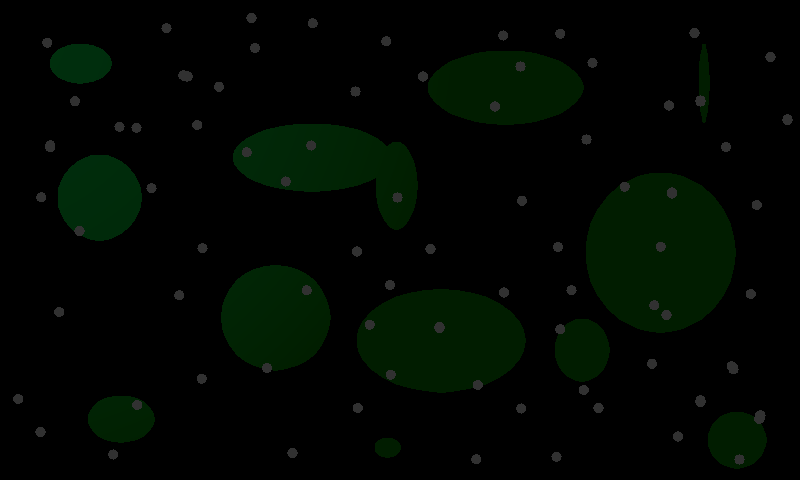
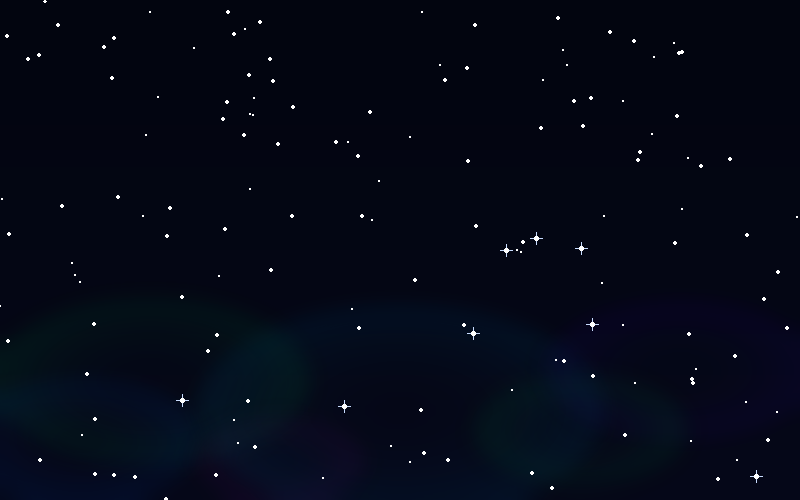
.

diff --git a/Games/breakout.py b/Games/breakout.py
@@ -297,7 +297,7 @@ class Breakout(Game):
         for power_up in self.power_ups:
             self.screen.blit(power_up.surf, power_up.rect)
         
-        score_surface = self.font1.render(f"Score: {self.score}", False, "#16db65").convert_alpha()
+        score_surface = self.font1.render(f"Score: {self.score}", False, "#FFFFFF").convert_alpha()
         self.screen.blit(score_surface, (10, 10))
         
         if self.game_state == 0:

diff --git a/Games/game_development_guide.md b/Games/game_development_guide.md
@@ -1,72 +1,11 @@
-# Game Development Guide
+# Adding a New Game
 
-## Adding a New Game
-
-### 1. Create Game File
-```python
-#!/usr/bin/env python3
-"""
-Your Game - Description
-"""
-import pygame
-import sys
-import os
-
-# Add parent to path
-sys.path.insert(0, os.path.join(os.path.dirname(__file__), '..', '..'))
-
-from shared.game_base import Game
-from shared.config import *
-from shared.save_system import save_system
-from shared.gpio_handler import input_handler
-
-class YourGame(Game):
-    def __init__(self, screen=None, fullscreen=True):
-        super().__init__(screen, fullscreen)
-        # Your initialization
-        self.player_x = 100
-        self.score = 0
-    
-    def handle_input(self):
-        """Handle keyboard/GPIO"""
-        keys = pygame.key.get_pressed()
-        
-        if keys[pygame.K_LEFT] or input_handler.is_pressed('LEFT'):
-            self.player_x -= 5
-        
-        if keys[pygame.K_RIGHT] or input_handler.is_pressed('RIGHT'):
-            self.player_x += 5
-    
-    def update(self):
-        """Update game logic"""
-        # Collision detection
-        # Score calculation
-        # Game over check
-        pass
-    
-    def draw(self):
-        """Draw to screen"""
-        self.screen.fill(BLACK)
-        
-        # Draw player
-        pygame.draw.rect(self.screen, GREEN, (self.player_x, 240, 50, 50))
-        
-        # Draw score
-        font = pygame.font.Font(None, 48)
-        text = font.render(f"Score: {self.score}", True, WHITE)
-        self.screen.blit(text, (10, 10))
-
-if __name__ == "__main__":
-    game = YourGame(fullscreen=False)
-    game.run()
-```
-
-### 2. Test Standalone
+## 2. Test Standalone
 ```bash
 python3 your_game.py --windowed
 ```
 
-### 3. Create RetroPie Launcher
+## 3. Create RetroPie Launcher
 ```bash
 # SW/retropie_integration/YourGame.sh
 #!/bin/bash
@@ -75,7 +14,7 @@ python3 your_game.py
 exit 0
 ```
 
-### 4. Add to Menu
+## 4. Add to Menu
 Edit `SW/launcher/main_menu.py`:
 ```python
 games = [
@@ -85,10 +24,4 @@ games = [
 ```
 
 ## Best Practices
-- Always inherit from `Game` base class
-- Use `shared.config` for constants
-- Support both keyboard AND GPIO
-- Save high scores with `save_system`
-- Test standalone before RetroPie
-- Keep FPS at 60
 - Add `--windowed` flag for PC testing

diff --git a/Games/game_readme/tetris.md b/Games/game_readme/tetris.md
@@ -1,9 +1,6 @@
 ````markdown
 # 🟦 Tetris
 
-## Overview
-Classic Tetris. Rotate and place falling blocks, clear lines.
-
 ## Gameplay
 - **Objective**: Clear as many lines as possible
 - **Controls**: 
@@ -28,60 +25,6 @@ Classic Tetris. Rotate and place falling blocks, clear lines.
 - ✅ Line clearing animation
 - ✅ Level progression (speed increase)
 - ✅ High score
-
-## Technical Details
-- **Grid**: 10 wide x 20 tall (blocks = 20x20 pixels)
-- **Rotation System**: Super Rotation System (SRS) with wall kicks
-
-## Tetromino Types
-```python
-SHAPES = {
-    'I': [[1,1,1,1]],                      # Cyan
-    'O': [[1,1],[1,1]],                    # Yellow
-    'T': [[0,1,0],[1,1,1]],                # Purple
-    'S': [[0,1,1],[1,1,0]],                # Green
-    'Z': [[1,1,0],[0,1,1]],                # Red
-    'J': [[1,0,0],[1,1,1]],                # Blue
-    'L': [[0,0,1],[1,1,1]]                 # Orange
-}
-```
-
-## Rotation System (SRS)
-```python
-def rotate(piece):
-    rotated = rotate_matrix(piece)
-    
-    # Try 5 wall kick positions
-    for offset in wall_kick_offsets:
-        if not collides(rotated, offset):
-            return rotated, offset
-    
-    return piece, (0, 0)  # Can't rotate
-```
-
-## Scoring Formula
-```python
-def calculate_score(lines_cleared, level):
-    base_points = {1: 100, 2: 300, 3: 500, 4: 800}
-    return base_points[lines_cleared] * (level + 1)
-```
-
-## Assets Required
-- Blocks: 7 colors (20x20 each) - I, O, T, S, Z, J, L
-- Ghost block: semi-transparent version
-- Grid: background with lines
-- UI panels: next piece, hold piece, score, level, lines
-- Line clear effect: flash/particle animation
-
-## Development Time
-**Estimated**: 6-8 hours
-- Grid & basic falling: 1h
-- Rotation logic: 2h
-- Wall kicks: 1h
-- Line clearing: 1h
-- Hold & next piece: 1h
-- Scoring & levels: 1h
-- Polish: 1h
 
 ## Testing Checklist
 - [ ] Pieces fall at correct speed

diff --git a/Games/game_readme/space_invaders.md b/Games/game_readme/space_invaders.md
@@ -1,8 +1,5 @@
 # 👾 Space Invaders
 
-## Overview
-Classic Space Invaders. Shoot aliens, avoid bullets, protect shields.
-
 ## Gameplay
 - **Objective**: Destroy all aliens
 - **Controls**: 
@@ -24,40 +21,8 @@ Classic Space Invaders. Shoot aliens, avoid bullets, protect shields.
 - ✅ Wave system
 - ✅ High score
 
-## Technical Details
-- **Key Classes**:
-  - `SpaceInvaders(Game)`: Main
-  - `Player`: Ship control
-  - `AlienGrid`: Formation logic
-  - `Bullet`: Project
-  
-# Move all aliens together
-
-if any_alien_hit_edge():
-    move_down()
-    reverse_direction()
-else:
-    move_horizontal()
-
 # Speed up as aliens die
 alien_speed = base_speed * (1 + (total_aliens - alive_aliens) * 0.1)
-
-## Assets Required
-- Player ship: 60x40 (triangle/spaceship)
-- Aliens: 3 types, 40x40 each, 2-frame animation
-- UFO: 60x30 (flying saucer)
-- Bullets: 8x20 (player = yellow, alien = red)
-- Shields: 80x60, 4 damage states
-- Explosions: 3-frame animation (60x60)
-- Background: starfield
-
-## Development Time
-**Estimated**: 5-6 hours
-- Player & movement: 1h
-- Alien grid & movement: 2h
-- Shooting & collision: 1.5h
-- Shields: 1h
-- UI & polish: 0.5h
 
 ## Testing Checklist
 - [ ] Player moves left/right

diff --git a/Games/game_readme/snake.md b/Games/game_readme/snake.md
@@ -1,8 +1,5 @@
 # 🐍 Snake
 
-## Overview
-Classic Snake. Eat food, grow longer, don't hit yourself or walls.
-
 ## Gameplay
 - **Objective**: Get highest score
 - **Controls**: 
@@ -18,40 +15,6 @@ Classic Snake. Eat food, grow longer, don't hit yourself or walls.
 - ✅ Score display
 - ✅ High score
 - ✅ Speed scaling
-
-## Technical Details
-- **Grid**: 20x20 pixels per cell
-- **Movement Speed**: 8-20 cells/second (scales with score)
-
-## Snake Logic
-```python
-# Move snake
-head = snake[0] + direction
-snake.insert(0, head)
-
-if head == food:
-    score += 10
-    spawn_food()
-else:
-    snake.pop()  # Remove tail
-
-# Check collision
-if head in snake[1:] or out_of_bounds(head):
-    game_over()
-```
-
-## Assets Required
-- Snake head: 20x20 (green, with eyes in direction)
-- Snake body: 20x20 (dark green)
-- Food: 20x20 (red apple/circle)
-- Background: grid optional
-
-## Development Time
-**Estimated**: 3-4 hours
-- Snake movement: 1h
-- Food & growth: 1h
-- Collision: 1h
-- UI & polish: 1h
 
 ## Testing Checklist
 - [ ] Snake moves in 4 directions

diff --git a/Games/README.md b/Games/README.md
@@ -1,11 +1,6 @@
 # Software
 
 
-## Setup
-```bash
-pip3 install pygame
-python3 -m pytest tests/
-```
 ## Games
 
 ### Pygame Games
@@ -28,9 +23,3 @@ Located in `Godot/` folder:
 
 ### Adding New Game
 See [game_development_guide.md](../docs/game_development_guide.md)
-
-## **Development Order (Priority)**
-
-1. input_handler.py     ← remake to adafruit input
-2. main_menu.py        ← Launcher system
-3. retropie_launcher.py ← RetroPie integration
